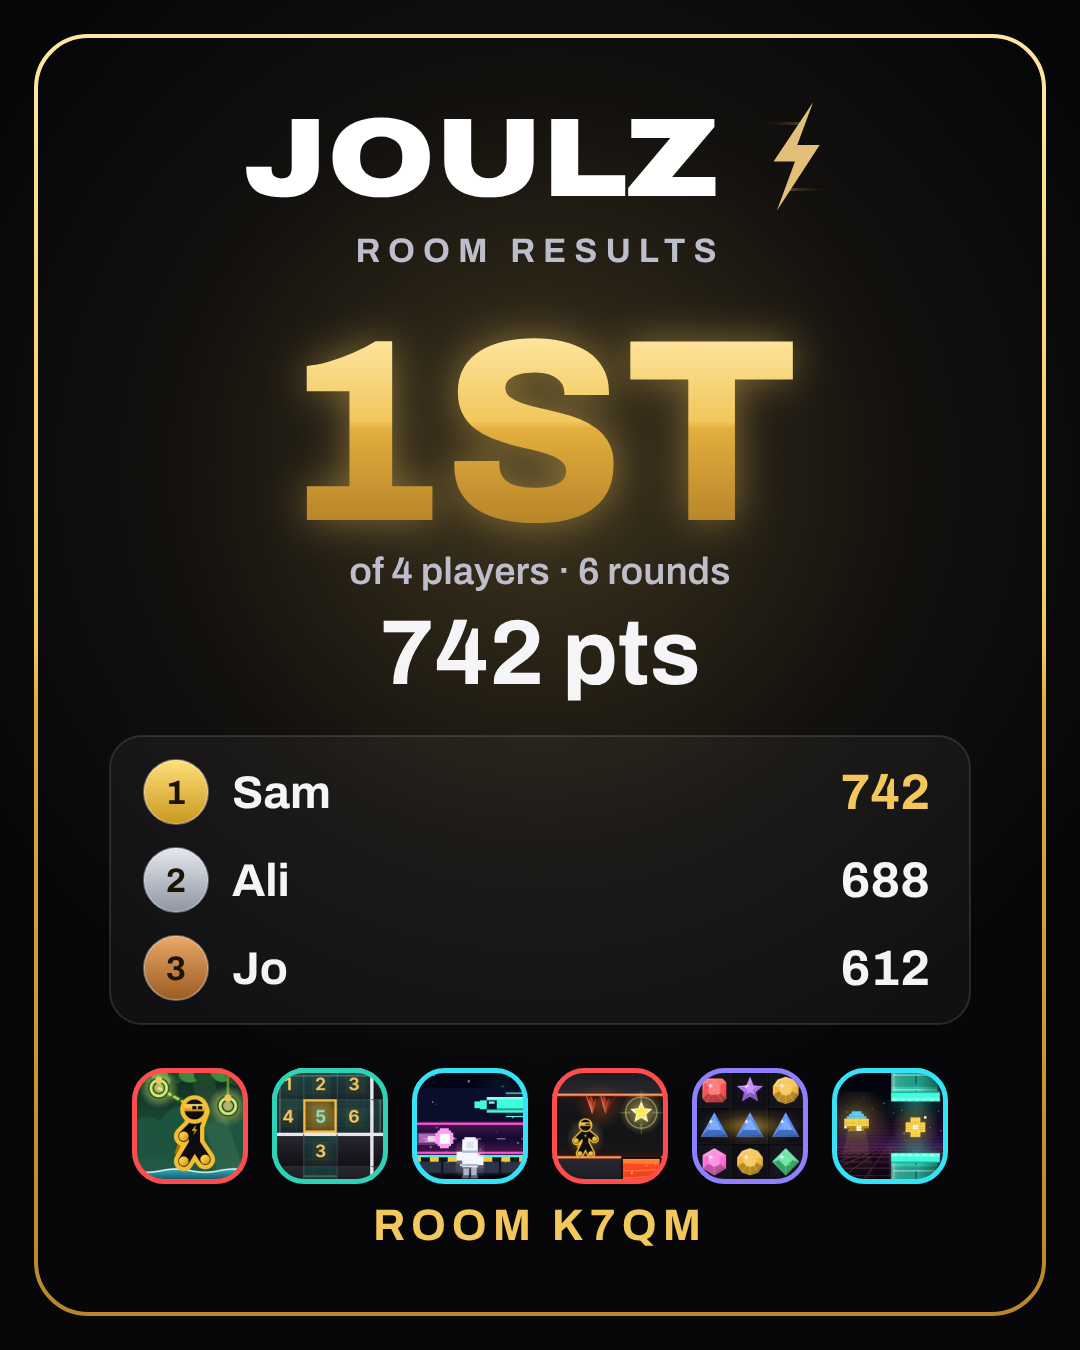
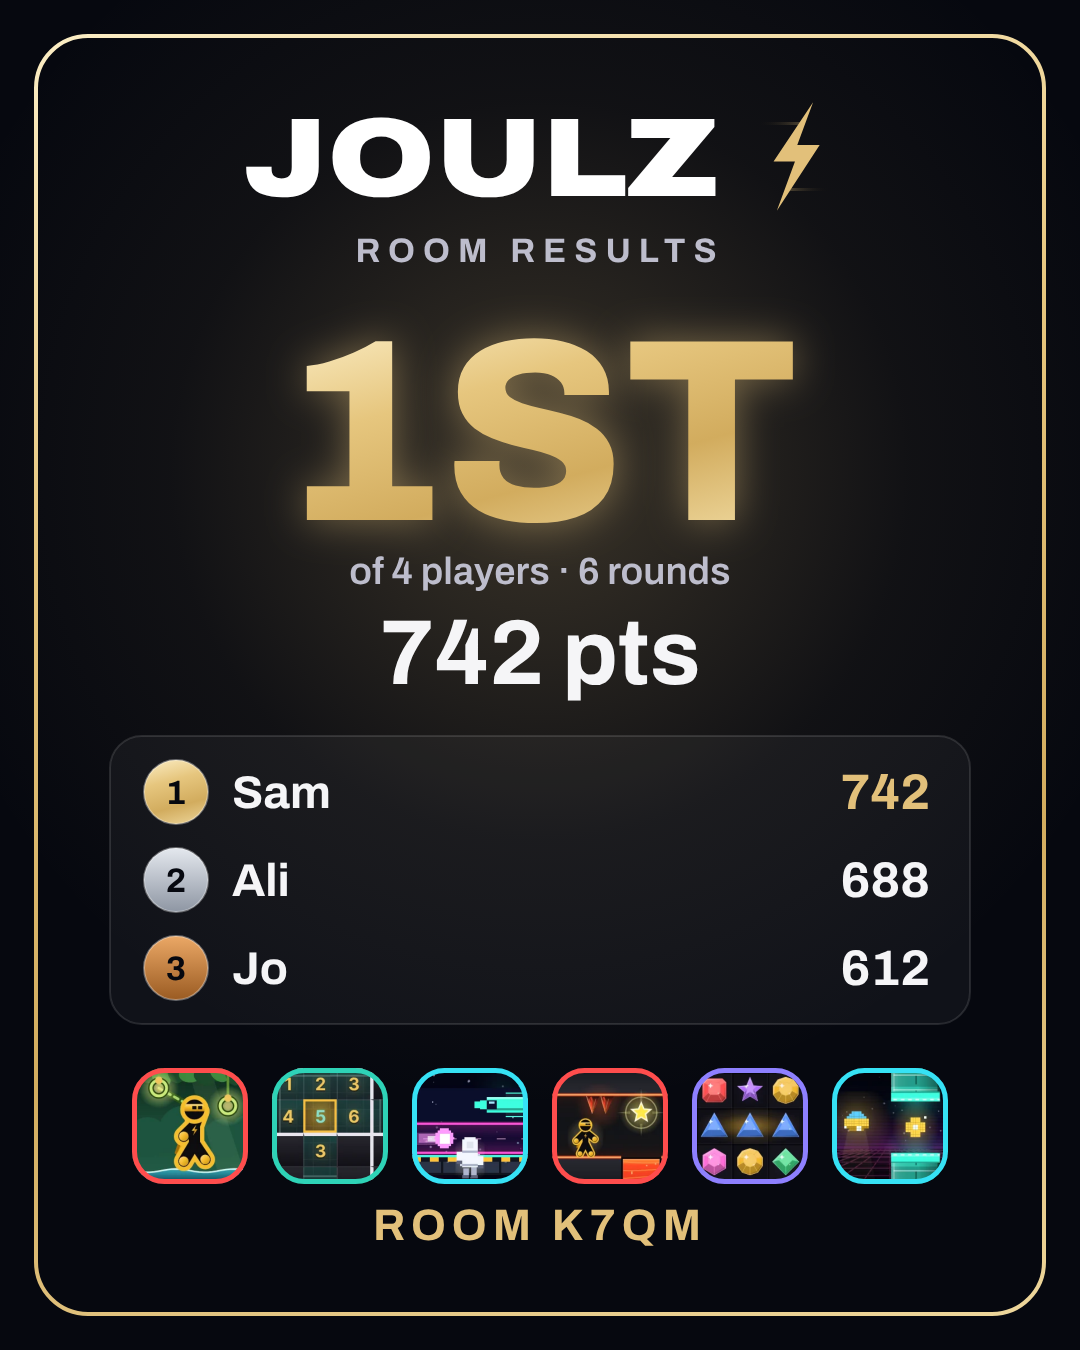
F4 follow-up: theme colour --jz-bg; the share card's gold and black on the tokens
- manifest theme_color and the page's theme-color meta: #06080F (--jz-bg, BRAND_INK).
- Share card (resultCard.ts): background --jz-bg, gold text --jz-gold, every gold fill (the place,
  the frame, the first-place disc) the ring-gold metal --jz-gold-metal at its 165° angle over its own
  box, medal numerals and other text on gold --jz-on-gold, the glows in --jz-gold, the icon tiles'
  backing --jz-bg. Silver and bronze discs and the text greys unchanged.
- brand-assets-check: the theme colours, and no gold or black literal of the card's own.
- Review images redrawn.

Claude-Session: https://claude.ai/code/session_011WK1Fcv5dPUW7ByMco6EjY

diff --git a/src/lib/share/resultCard.ts b/src/lib/share/resultCard.ts
@@ -6,6 +6,9 @@
  */
 import { APP_NAME } from "@/lib/brand";
 import {
+  BRAND_GOLD,
+  BRAND_INK,
+  cssGradientLine,
   LOGO_BOX,
   LOGO_COLOURS,
   LOGO_HAIRLINE_PX,
@@ -13,6 +16,7 @@ import {
   LOGO_LOWER,
   LOGO_TRAIL,
   LOGO_UPPER,
+  RING_GOLD,
 } from "@/components/brand/logoGeometry";
 import {
   loadWordmarkFace,
@@ -31,17 +35,21 @@ import type { RoomShareData } from "./roomShare";
 export const CARD_W = 1080;
 export const CARD_H = 1350;
 
-/** The skin's tokens (polish-layout/theme.css). */
-const INK = "#07070A";
+/**
+ * The card's colours. Gold and black are the design tokens (DESIGN.md section 2, design foundation F4;
+ * logoGeometry.ts mirrors them for canvases): the background --jz-bg, gold text --jz-gold, every gold
+ * fill the ring-gold metal --jz-gold-metal (goldFill), text on gold --jz-on-gold. The text greys are the
+ * skin's (polish-layout/theme.css).
+ */
+const INK = BRAND_INK;
+const ON_GOLD = BRAND_INK;
+const GOLD = BRAND_GOLD;
 const TEXT = "#F5F5F7";
 const MUTED = "#BDBDCC";
-const GOLD = "#F2C75C";
 /** The wordmark's letters (--jz-white). */
 const WORDMARK_WHITE = "#FFFFFF";
-const GOLD_HI = "#FFE7A3";
-const GOLD_LO = "#B9862A";
+/** Second and third place's discs; first place is the ring-gold metal. */
 const MEDALS: Record<number, [string, string]> = {
-  1: ["#FFE07A", "#C9971F"],
   2: ["#E4E8EE", "#8E96A3"],
   3: ["#EBA866", "#9A5B22"],
 };
@@ -102,12 +110,17 @@ export function fitText(c: Ctx, text: string, max: number): string {
   return `${cut.trimEnd()}…`;
 }
 
-function goldFill(c: Ctx, top: number, bottom: number): CanvasGradient {
-  const g = c.createLinearGradient(0, top, 0, bottom);
-  g.addColorStop(0, GOLD_HI);
-  g.addColorStop(0.48, GOLD);
-  g.addColorStop(0.52, "#E2AE3E");
-  g.addColorStop(1, GOLD_LO);
+/** A #rrggbb colour at `alpha`. */
+function withAlpha(hex: string, alpha: number): string {
+  const n = parseInt(hex.slice(1), 16);
+  return `rgb(${(n >> 16) & 255} ${(n >> 8) & 255} ${n & 255} / ${alpha})`;
+}
+
+/** The ring-gold metal (--jz-gold-metal) over the box (x, y, w, h), as the CSS gradient draws it there. */
+function goldFill(c: Ctx, x: number, y: number, w: number, h: number): CanvasGradient {
+  const line = cssGradientLine(RING_GOLD.angle, w, h);
+  const g = c.createLinearGradient(x + line.x1, y + line.y1, x + line.x2, y + line.y2);
+  for (const [offset, colour] of RING_GOLD.stops) g.addColorStop(offset, colour);
   return g;
 }
 
@@ -165,18 +178,23 @@ function goldBolt(c: Ctx, x: number, y: number, h: number): void {
 }
 
 function medal(c: Ctx, cx: number, cy: number, r: number, place: number): void {
-  const [hi, lo] = MEDALS[place] ?? ["#3A3D4C", "#2A2C38"];
-  const g = c.createLinearGradient(0, cy - r, 0, cy + r);
-  g.addColorStop(0, hi);
-  g.addColorStop(1, lo);
-  c.fillStyle = g;
+  const disc = MEDALS[place];
+  if (place === 1) {
+    c.fillStyle = goldFill(c, cx - r, cy - r, r * 2, r * 2);
+  } else {
+    const [hi, lo] = disc ?? ["#3A3D4C", "#2A2C38"];
+    const g = c.createLinearGradient(0, cy - r, 0, cy + r);
+    g.addColorStop(0, hi);
+    g.addColorStop(1, lo);
+    c.fillStyle = g;
+  }
   c.beginPath();
   c.arc(cx, cy, r, 0, Math.PI * 2);
   c.fill();
   c.strokeStyle = "rgb(255 255 255 / 0.35)";
   c.lineWidth = 2;
   c.stroke();
-  c.fillStyle = place <= 3 ? "#1A1405" : TEXT;
+  c.fillStyle = place <= 3 ? ON_GOLD : TEXT;
   c.font = `700 ${Math.round(r * 1.05)}px ${MONO}`;
   c.textAlign = "center";
   c.textBaseline = "middle";
@@ -204,7 +222,7 @@ function iconTile(
   c.save();
   roundRect(c, x, y, s, s, s * 0.28);
   c.clip();
-  c.fillStyle = "#000";
+  c.fillStyle = INK;
   c.fillRect(x, y, s, s);
   if (art) {
     c.drawImage(art, x, y, s, s);
@@ -233,13 +251,13 @@ export function drawResultCard(c: Ctx, data: RoomShareData, icons: CardIcons = n
   c.fillStyle = INK;
   c.fillRect(0, 0, CARD_W, CARD_H);
   const glow = c.createRadialGradient(CARD_W / 2, 470, 40, CARD_W / 2, 470, 640);
-  glow.addColorStop(0, "rgb(242 199 92 / 0.22)");
-  glow.addColorStop(0.55, "rgb(242 199 92 / 0.05)");
-  glow.addColorStop(1, "rgb(242 199 92 / 0)");
+  glow.addColorStop(0, withAlpha(GOLD, 0.22));
+  glow.addColorStop(0.55, withAlpha(GOLD, 0.05));
+  glow.addColorStop(1, withAlpha(GOLD, 0));
   c.fillStyle = glow;
   c.fillRect(0, 0, CARD_W, CARD_H);
   roundRect(c, 36, 36, CARD_W - 72, CARD_H - 72, 52);
-  c.strokeStyle = goldFill(c, 36, CARD_H - 36);
+  c.strokeStyle = goldFill(c, 36, 36, CARD_W - 72, CARD_H - 72);
   c.lineWidth = 4;
   c.stroke();
 
@@ -271,8 +289,9 @@ export function drawResultCard(c: Ctx, data: RoomShareData, icons: CardIcons = n
   // Place and total.
   const placeText = data.place ? ordinal(data.place).toUpperCase() : "GG";
   c.font = `800 260px ${DISPLAY}`;
-  c.fillStyle = goldFill(c, 330, 520);
-  c.shadowColor = "rgb(242 199 92 / 0.45)";
+  const placeW = c.measureText(placeText).width;
+  c.fillStyle = goldFill(c, CARD_W / 2 - placeW / 2, 330, placeW, 190);
+  c.shadowColor = withAlpha(GOLD, 0.45);
   c.shadowBlur = 40;
   c.fillText(placeText, CARD_W / 2, 520);
   c.shadowBlur = 0;

diff --git a/scripts/brand-assets-check.ts b/scripts/brand-assets-check.ts
@@ -8,7 +8,8 @@
  *   with capitals by CSS, and the share card, link preview and update overlay all draw it;
  * - the PNGs scripts/brand-icons.ts and og-image.ts write exist at their sizes (the app icons, the solve
  *   burst's logo, one launch screen per APP_SPLASHES entry, the link preview);
- * - the manifest's background colour is --jz-bg; the root head links every launch screen with its media
+ * - the share card's gold and black are the tokens (--jz-bg, --jz-gold, --jz-gold-metal, --jz-on-gold);
+ * - the manifest's background and theme colours and the theme-color meta are --jz-bg; the root head links every launch screen with its media
  *   query; the offline worker doesn't keep them.
  *
  *   bun scripts/brand-assets-check.ts
@@ -58,6 +59,11 @@ ok(WORDMARK_WEIGHT === 900 && WORDMARK_STRETCH === 118, "wordmark.ts: 900 at 118
 ok(!/\.ap-wordmark-last/.test(css), "no gold last letter in app-pages.css");
 const card = readFileSync("src/lib/share/resultCard.ts", "utf8");
 ok(/wordmarkCanvasFont\(/.test(card) && /WORDMARK_TEXT/.test(card) && /loadWordmarkFace\(\)/.test(card) && !/APP_NAME\.slice/.test(card), "the share card draws the one wordmark");
+// The share card's gold and black are the tokens: no gold or near-black literal of its own.
+const cardColours = card.match(/#[0-9A-Fa-f]{6}\b/g) ?? [];
+const OLD_GOLD_BLACK = ["#07070A", "#F2C75C", "#FFE7A3", "#B9862A", "#E2AE3E", "#FFE07A", "#C9971F", "#1A1405", "#000000"];
+ok(!cardColours.some((c) => OLD_GOLD_BLACK.includes(c.toUpperCase())) && !/"#000"/.test(card) && !/242 199 92/.test(card), `the share card has no gold or black of its own (${cardColours.join(", ")})`);
+ok(/const INK = BRAND_INK;/.test(card) && /const ON_GOLD = BRAND_INK;/.test(card) && /const GOLD = BRAND_GOLD;/.test(card) && /RING_GOLD\.stops/.test(card), "the share card: background --jz-bg, text on gold --jz-on-gold, gold --jz-gold, gold fills --jz-gold-metal");
 const og = readFileSync("scripts/og-image.ts", "utf8");
 ok(/WORDMARK_TEXT/.test(og) && /WORDMARK_STRETCH/.test(og) && !/class="last"/.test(og), "the link preview draws the one wordmark");
 ok(/<AppWordmark still \/>/.test(readFileSync("src/components/app/AppUpdateOverlay.tsx", "utf8")), "the update overlay draws the one wordmark");
@@ -89,8 +95,10 @@ ok(og2?.w === 1200 && og2.h === 630, "og-image.png is 1200×630");
 // The manifest and the head.
 const manifest = JSON.parse(readFileSync("public/manifest.webmanifest", "utf8"));
 ok(same(manifest.background_color, BRAND_INK), `manifest background_color is --jz-bg (${manifest.background_color})`);
+ok(same(manifest.theme_color, BRAND_INK), `manifest theme_color is --jz-bg (${manifest.theme_color})`);
 const root = readFileSync("src/routes/__root.tsx", "utf8");
 ok(/APP_SPLASHES\.map\(\(splash\) => \(\{ rel: "apple-touch-startup-image", href: splash\.href, media: splash\.media \}\)\)/.test(root), "the root head links every launch screen");
+ok(/\{ name: "theme-color", content: BRAND_INK \}/.test(root), "the page's theme-color meta is --jz-bg");
 ok(/apple-mobile-web-app-capable/.test(root), "the head marks the page a home-screen app (iOS reads launch screens only then)");
 
 if (failures) {

diff --git a/src/routes/__root.tsx b/src/routes/__root.tsx
@@ -18,6 +18,7 @@ import { noteShareArrival } from "../lib/share/shareRef";
 import { PLAY_CARDS_BOOT } from "../lib/playCards";
 import { installSoundCueBridge, installSoundUnlock } from "../lib/sound";
 import { batterySaverOn } from "../lib/battery";
+import { BRAND_INK } from "../components/brand/logoGeometry";
 import { APP_DESCRIPTION, APP_ICONS, APP_NAME, APP_SPLASHES, APP_TITLE, canonicalUrl, LINK_PREVIEW } from "../lib/brand";
 import { installAppUpdater } from "../lib/appUpdate";
 import { reportCrash, startCrashReporting } from "../lib/crashReporting";
@@ -117,7 +118,7 @@ export const Route = createRootRouteWithContext<{ queryClient: QueryClient }>()(
       { name: "twitter:description", content: LINK_PREVIEW.description },
       { name: "twitter:image", content: LINK_PREVIEW.image },
       { name: "twitter:image:alt", content: LINK_PREVIEW.imageAlt },
-      { name: "theme-color", content: "#0B0B0F" },
+      { name: "theme-color", content: BRAND_INK },
       { name: "apple-mobile-web-app-capable", content: "yes" },
       { name: "apple-mobile-web-app-status-bar-style", content: "black-translucent" },
       { name: "apple-mobile-web-app-title", content: APP_NAME },

diff --git a/CLAUDE.md b/CLAUDE.md
@@ -1535,7 +1535,9 @@ outside the repo.
   scripts/brand-icons.ts` draws the app icons (the black bolt on the ring-gold metal, `--jz-gold-metal` at 165°), the
   solve burst's logo (`public/icon-512.png`: the bolt in the ring-gold metal on `--jz-bg`) and the iPhone launch
   screens (`APP_SPLASHES`, `public/splash/`, the gold bolt on `--jz-bg`, linked as `apple-touch-startup-image`, not kept
-  offline); `bun scripts/og-image.ts` the link preview; the manifest's background is `--jz-bg`. Copy: player-facing
+  offline); `bun scripts/og-image.ts` the link preview; the manifest's background and theme colours and the
+  theme-color meta are `--jz-bg`. The share card's gold and black are the tokens (background `--jz-bg`, gold text
+  `--jz-gold`, gold fills and the first-place disc the ring-gold metal, text on gold `--jz-on-gold`). Copy: player-facing
   strings use ’ “ ” (the mechanical pass from `docs/design-audit/strings.csv`; the bomb bank's stored rule text and dev
   messages left alone). Press states: `.jz-press` (`src/design/utilities.css`, on the shadcn Button) and one rule for
   every other button in app and game chrome sink to 97 % over `--jz-fast` with the `scale` property (never in game
